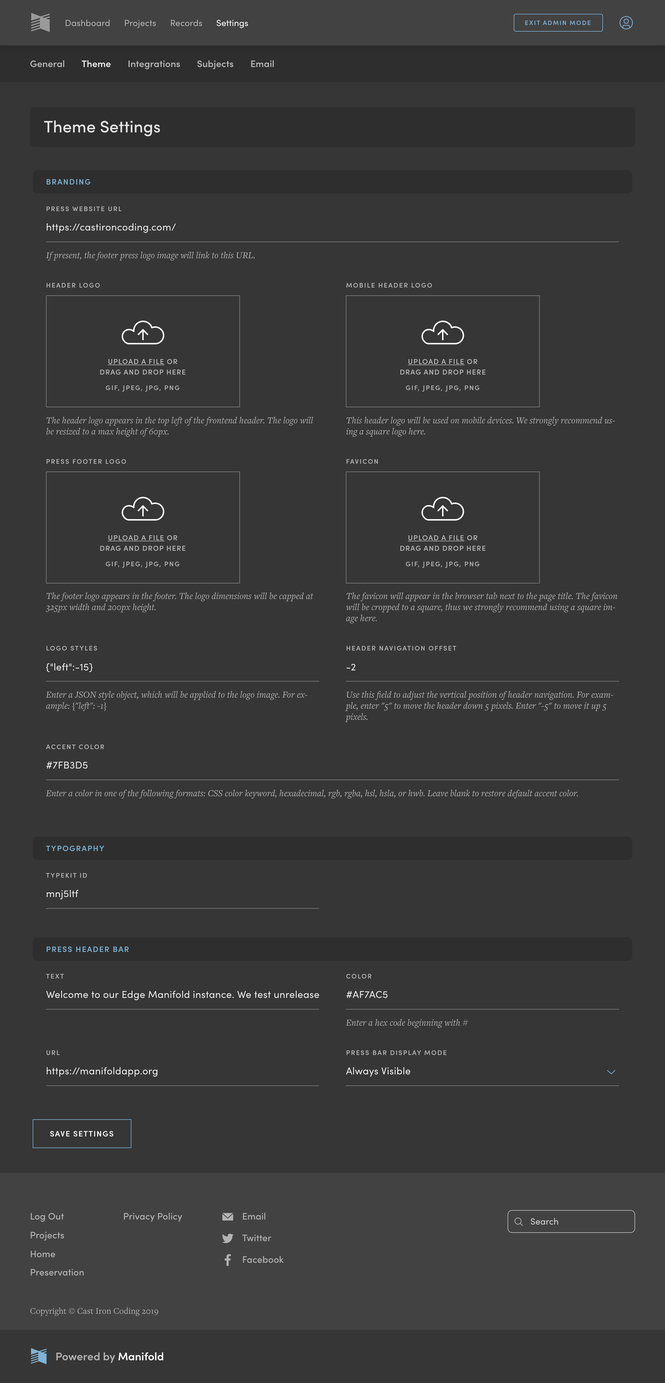
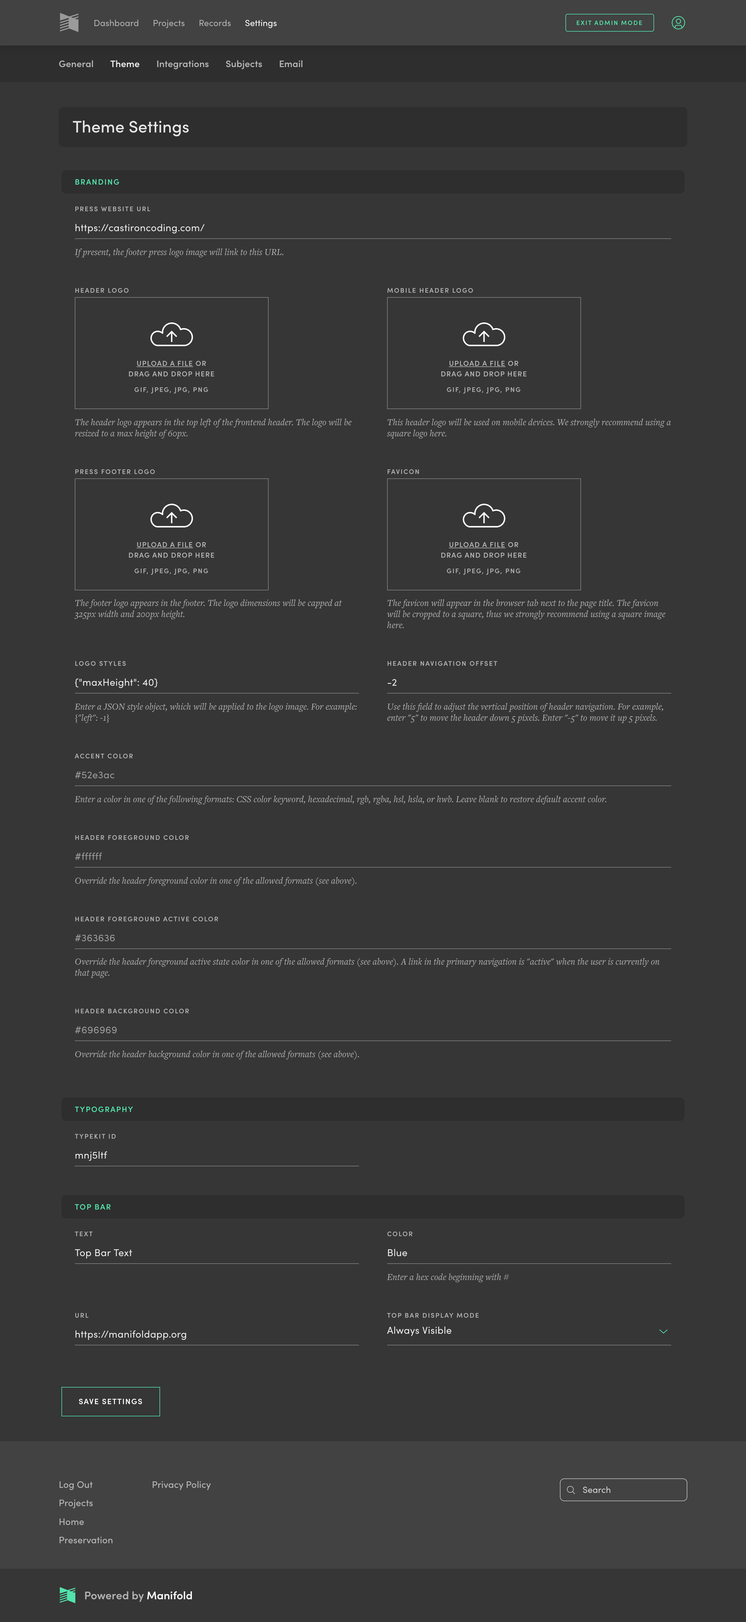
Describes annotation restrictions

diff --git a/_docs/projects/customizing/general.md b/_docs/projects/customizing/general.md
@@ -5,11 +5,12 @@ menus:
   projects_customizing:
     weight: 1
 ---
+
 The General sidebar provides controls for the most top-level elements for how a project is registered and displayed across the system.
 
-## General Attributes
+![General Sidebar Elements](/docs/assets/projects/general.png)
 
-![General Attributes](/docs/assets/projects/general-attributes.png)
+## General
 
 ### Title
 
@@ -47,9 +48,27 @@ You can also upload (as a JPEG, TIFF, GIF, or PNG) a new avatar using the right 
 
 Note that even if you add a book cover to display in the project's [hero block](/docs/projects/customizing/layout.html), you will also need to add it here as a custom image for the cover to show in library views.
 
-## Visibility
+## Taxonomy
 
-![Visibility](/docs/assets/projects/visibility.png)
+<a name="subjects"></a>
+
+### Subjects
+
+Subjects provide a means to categorize projects, which readers can use as filters to sort through the collection of projects on the landing page (see [Projects Library](/docs/reading/library.html)).
+
+Subjects can only be created by users with Administrator roles. All other roles that can access the backend can only select from the list of subjects already loaded into the system. To associate a subject with a project, simply begin typing in this field, and the system will populate those subjects in the system that most closely resemble what you are typing. Once accepted the Subject name will appear beneath the `Add a Subject` field alongside any others that have been associated with the project.
+
+To learn more about how to create Subjects as an Administrator, see the [Subjects section](/docs/customizing/settings/subjects.html). And to see how Subjects can be used to curate Smart Collections, visit the [Project Collections](/docs/projects/collections.html#smart-collections) page.
+
+<a name="tags"></a>
+
+### Tags
+
+Unlike Subjects, Tags can be created by any user who has permission to modify a project and can be used to add further richness to the existing subject classification. Like Subjects, the Tag field provides a helper so that as you begin typing any similar tags that have already been created on your instance will be revealed.
+
+To see how Tags can be used to curate Smart Collections, visit the [Project Collections](/docs/projects/collections.html#smart-collections) page.
+
+## Presentation
 
 <a name="draft-mode"></a>
 
@@ -80,8 +99,7 @@ The Finished toggle is a means to indicate that a project is no longer actively 
 ![Finished](/docs/assets/projects/finished.png)
 
 <div style="background: #d4f2ff; margin: 20px 0; padding: 15px;">
-<strong>Note</strong>. If a project is toggled to Finished and no publication date is set, in list views no date of any kind will appear.<br/><br/>
-<img src="/docs/assets/projects/nopub.png" alt="nopub">
+<strong>Note</strong>. If a project is toggled to Finished and no publication date is set, in list views no date of any kind will appear.
 </div>
 
 <a name="standalone"></a>
@@ -103,11 +121,11 @@ When a project is offered in standalone mode, the library header is replaced wit
 <figure>
   <img src="/docs/assets/projects/library.png" alt="Library Bar" style="margin-bottom: 1em;">
   <img src="/docs/assets/projects/standalone.png" alt="Standalone Bar">
-  <figcaption><em>Above</em>, the standard Manifold library header; <em>below</em>, the standalone header along with a header bar, which serve as branding and navigation elements.</figcaption>
+  <figcaption><em>Above</em>, the standard Manifold header; <em>below</em>, the standalone header along with the optional top bar enabled, which serve as branding and navigation elements.</figcaption>
 </figure>
 
 <div style="background: #d4f2ff; margin: 20px 0; padding: 15px;">
-<strong>Note</strong>. For those with <a href="/docs/projects/accounts/users.html">Administrator credentials</a>, see the Header Bar options on the <a href="/docs/customizing/settings/theme.html#instance-header">Theming Settings page</a> to enable and customize the text, link, and color of the optional header bar),
+<strong>Note</strong>. For those with <a href="/docs/projects/accounts/users.html">Administrator credentials</a>, see the Top Bar options on the <a href="/docs/customizing/settings/theme.html#instance-header">Theming Settings page</a> to enable and customize the text, link, and color of the optional top bar),
 </div>
 
 Additionally, when a project is in standalone mode, the following behaviors can also be expected:
@@ -124,63 +142,48 @@ Additionally, when a project is in standalone mode, the following behaviors can 
 
 - project subpages for individual resources or resource collections show the standalone header with no breadcrumbs.
 
-These settings work in conjunction with the header bar configurations, which can be adjusted on a project-by-project basis or generally across an entire instance.
+These settings work in conjunction with the top bar configurations, which can be adjusted on a project-by-project basis or generally across an entire instance.
 
-See the [Header Bar section](/docs/projects/customizing/general.html#header-bar) below to adjust an individual project's header bar text and link URL. Those with [Administrator credentials](/docs/projects/accounts/users.html) can modify the header bar globally across the instance—its text, link URL, color, and behavior—on the [Theme Settings page](/docs/customizing/settings/theme.html#instance-header).
+See the [Top Bar section](/docs/projects/customizing/general.html#top-bar) below to adjust an individual project's top bar text and link URL. Those with [Administrator credentials](/docs/projects/accounts/users.html) can modify the top bar globally across the instance—its text, link URL, color, and behavior—on the [Theme Settings page](/docs/customizing/settings/theme.html#instance-header).
+
+If you enable or enforce standalone mode on a project but don’t see a top bar on your project, check that the `Top Bar Text` and `Top Bar URL` fields (described below) are filled in. Or, if the project is intended to follow the default instance top bar theme, check the <a href="/docs/customizing/settings/theme.html#instance-header">Theme Settings page</a> to see that Top Bar Display Mode is not set to <code>Disabled</code>.
 
 <div style="background: #d4f2ff; margin: 20px 0; padding: 15px;">
-<ul><li>Regardless of how many projects are set for Standalone Mode, the standard Manifold landing page will still exist. Further, if a reader navigates to an instance's landing page (by happenstance or by entering it into the URL bar) they will be able to see all the projects on the instance—excepting those in <a href="/docs/projects/customizing/general.html#draft-mode">Draft Mode</a> or those where Standalone Mode is enforced (so long as they aren't also part of a project collection).</li>
-<li>If you enable or enforce standalone mode on a project but don't see a header bar on your project, check the <a href="/docs/customizing/settings/theme.html#instance-header">Theme Settings page</a> to see that Header Bar Display Mode is not set to <code>Disabled</code>. N.B., only users with <a href="/docs/projects/accounts/users.html">Administrator credentials</a> can access the Theme Settings page.</li>
-</ul>
+<strong>Note</strong>. Regardless of how many projects are set for Standalone Mode, the standard Manifold library page will still exist. Further, if a reader navigates to an instance’s library page (by happenstance or by entering it into the URL bar) they will be able to see all the projects on the instance—excepting those in <a href="/docs/projects/customizing/general.html#draft-mode">Draft Mode</a> or those where Standalone Mode is enforced (so long as they aren’t also part of a project collection). To Disable Library Views entirely, see the <a href="/docs/customizing/settings/general.html#disable-library">General instance settings</a>.
 </div>
 
-## Taxonomy
+<a name="top-bar"></a>
 
-![Taxonomy](/docs/assets/projects/taxonomy.png)
+### Top Bar Text
 
-<a name="subjects"></a>
+The top bar is a thin, customizable band that serves as a means to contextualize a Manifold page for readers in relation to a larger mission.
 
-### Subjects
-
-Subjects provide a means to categorize projects, which readers can use as filters to sort through the collection of projects on the landing page (see [Projects Library](/docs/reading/library.html)).
-
-Subjects can only be created by users with Administrator roles. All other roles that can access the backend can only select from the list of subjects already loaded into the system. To associate a subject with a project, simply begin typing in this field, and the system will populate those subjects in the system that most closely resemble what you are typing. Once accepted the Subject name will appear beneath the `Add a Subject` field alongside any others that have been associated with the project.
-
-To learn more about how to create Subjects as an Administrator, see the [Subjects section](/docs/customizing/settings/subjects.html). And to see how Subjects can be used to curate Smart Collections, visit the [Project Collections](/docs/projects/collections.html#smart-collections) page.
-
-<a name="tags"></a>
-
-### Tags
-
-Unlike Subjects, Tags can be created by any user who has permission to modify a project and can be used to add further richness to the existing subject classification. Like Subjects, the Tag field provides a helper so that as you begin typing any similar tags that have already been created on your instance will be revealed.
-
-To see how Tags can be used to curate Smart Collections, visit the [Project Collections](/docs/projects/collections.html#smart-collections) page.
-
-<a name="header-bar"></a>
-
-## Header Bar
-The header bar is a thin, customizable branding element that serves as a means to contextualize a Manifold page for readers in relation to a larger mission. The header bar options on this page function as project-specific overrides to the global header bar configurations set by those with [Administrator credentials](/docs/projects/accounts/users.html) on the [Theme Settings page](/docs/customizing/settings/theme.html#instance-header).
+Text entered in this field appears in the top bar for the specific project, superseding the top bar text entered by those with [Administrator credentials](/docs/projects/accounts/users.html) on the [Theme Settings page](/docs/customizing/settings/theme.html#instance-header).
 
 <div style="background: #d4f2ff; margin: 20px 0; padding: 15px;">
 <strong>Notes</strong>
 <ul>
-<li>The header bar color and display parameters are only configurable for users with Administrator credentials from the Theme Settings page.</li>
-<li>The header bar is <em>not</em> required for standalone projects; the header bar can be used strictly with standalone projects or generally across the entire instance.</li>
+<li>The top bar color and display parameters are only configurable for users with Administrator credentials from the Theme Settings page.</li>
+<li>If this field is left blank, the top bar settings for the project  will default to the instance-wide settings</li>
+<li>The top bar is <em>not</em> required for standalone projects; it is highly configurable and can used on a project-by-project basis or it can be used in conjunction with standalone projects settings or generally across the entire instance.</li>
+<li>This field is <em>not</em> Markdown enabled and only accepts one line of text.</li>
 </ul>
 </div>
 
-![Header Bar](/docs/assets/projects/header-bar.png)
+### Top Bar URL
 
-### Header Bar Text
+The top bar functions as a clickable link. The URL entered here will serve as the link target to any user who clicks on the top bar. As with the Top Bar Text above, the value entered here will supersede the input from the [Theme Settings page](/docs/customizing/settings/theme.html#instance-header).
 
-Text entered here appears in the header bar for the specific project being editing, superseding the header bar text entered by those with [Administrator credentials](/docs/projects/accounts/users.html) on the [Theme Settings page](/docs/customizing/settings/theme.html#instance-header).
+## Restrictions
 
-![Header Bar Text](/docs/assets/projects/header-bar-text.png)
+### Disable Public Annotations and Comments
 
-<div style="background: #d4f2ff; margin: 20px 0; padding: 15px;">
-<strong>Note</strong>. This field is <em>not</em> Markdown enabled and only accepts one line of text.
-</div>
+When this local setting is toggled on, users will not be able to pin public annotations to any text that is a part of this specific project. *This does not prevent users from annotating texts in this project entirely.* Users will be able to leave annotations in the context of a reading group of which they are a member—and viewable to other members of that group—or as a private annotation, viewable only to the user themself.
 
-### Header Bar URL
+Because of that, someone who doesn't have an account, or someone who is logged in as a Reader, won't see annotations on any text in the project so long as this toggle is engaged. The exception would be Readers who are members of reading groups: they will be able to see annotations that have been left in the context of those reading groups. 
 
-The header bar functions as a clickable link. The URL entered here will serve as the link target to any user who clicks on the header bar. As with the Header Bar Text above, the value entered here will supersede the input from the [Theme Settings page](/docs/customizing/settings/theme.html#instance-header).
+While this setting is engaged, it will not possible to convert a private annotation into a public one, and public reading groups will function as if they were private ones.
+
+To learn how to disable public annotations globally across an entire Manifold instance, instead of locally for specific projects, see the [General Settings section](/docs/customizing/settings/general).
+
+Likewise, that section describes how to further limit the annotation functionality by disabling reading groups across an entire instance. When publishers disable both public annotation and reading groups globally, users will only be able to leave private annotations they alone can see.

diff --git a/_docs/customizing/settings/theme.md b/_docs/customizing/settings/theme.md
@@ -69,21 +69,21 @@ If left blank, Manifold will reset to its default accent color.
 <strong>Note</strong>. Manifold will still calculate values for secondary system colors in line with accessibility standards even if a custom value has been input.
 </div>
 
-### Library Header Foreground Color
+### Header Foreground Color
 
-If a value is entered here, it will override the value of the accent color for links contained with the header bar.
+If a value is entered here, it will override the value of the accent color for links contained within the Manifold header.
 
-### Library Header Foreground Active Color
+### Header Foreground Active Color
 
-The color value entered has two purposes: it indicates what page a reader is presently viewing (e.g., Home, Projects, Following), and it also serves as the hover color for links to pages in the header bar.
+The color value entered has two purposes: it indicates what page a reader is presently viewing (e.g., Home, Projects, Following), and it also serves as the hover color for links to pages in the Manifold header.
 
-### Library Header Background Color
+### Header Background Color
 
-By default the header bar background is white. By entering a color value here, a publisher can further bring their instance in line with their branding expectations.
+By default the Manifold header background is white. By entering a color value here, a publisher can further bring their instance in line with their branding expectations.
 
 <figure>
   <img src="/docs/assets/customizing/libraryHeader.png" alt="Library Header Color Elements">
-  <figcaption>Here we see the header bar with the following values: <code>Accent Color</code>, Yellow; <code>Header Foreground Color</code>, White; <code>Header Foreground Active Color</code>, Red; and <code>Header Background Color</code>, Black.</figcaption>
+  <figcaption>Here we see the Manifold header with the following values: <code>Accent Color</code>, Yellow; <code>Header Foreground Color</code>, White; <code>Header Foreground Active Color</code>, Red; and <code>Header Background Color</code>, Black.</figcaption>
 </figure>
 
 ## Typography
@@ -158,21 +158,21 @@ If you do not have a Typekit account, Manifold will defer to two sets of open-li
 
 <a name="instance-header"></a>
 
-## Press Header Bar
+## Top Bar
 
-![Instance Header](/docs/assets/customizing/instance-header.png)
+![Top Bar Menu](/docs/assets/customizing/top-bar.png)
 
-The press header bar is a thin, customizable branding element that serves as a means to contextualize a Manifold page for readers in relation to a larger mission. It can be configured to appear atop all Manifold pages outside of the reader, or it can be set to specifically target only those projects that are enabled for [standalone mode](/docs/projects/customizing/general.html#standalone).
+The top bar is a thin, customizable branding element that serves as a means to contextualize a Manifold page for readers in relation to a larger mission. It can be configured to appear atop all Manifold pages outside of the reader, set to specifically target only those projects that are enabled for [standalone mode](/docs/projects/customizing/general.html#standalone), or configured on a project-by-project basis..
 
 <div style="background: #d4f2ff; margin: 20px 0; padding: 15px;">
-<strong>Note</strong>. The press header bar can be deployed in addition to the standard header; it does not <em>only</em> need to be used in conjunction with projects in standalone mode.
+<strong>Note</strong>. The top bar can be deployed in addition to the standard header; it does not <em>only</em> need to be used in conjunction with projects in standalone mode.
 </div>
 
 ### Text
 
-Text entered here appears in the header bar globally across the instance, but it can be superseded on individual projects if so configured in a project's [General settings](/docs/projects/customizing/general.html#header-bar).
+Text entered here appears in the top bar globally across the instance, but it can be superseded on individual projects if so configured in a project's [General settings](/docs/projects/customizing/general.html#top-bar).
 
-![Header Bar Text](/docs/assets/projects/header-bar-text.png)
+![Top Bar Text](/docs/assets/projects/top-bar-text.png)
 
 <div style="background: #d4f2ff; margin: 20px 0; padding: 15px;">
 <strong>Note</strong>. This field is <em>not</em> Markdown enabled and only accepts one line of text.
@@ -180,22 +180,22 @@ Text entered here appears in the header bar globally across the instance, but it
 
 ### Color
 
-The color of the header bar is customizable. To define the color of the header bar for your Manifold instance, enter an HTML color hex value—including the hash symbol (#)—in this field (e.g., `#2980B9`).
+The color of the top bar is customizable. To define the color of the top bar for your Manifold instance, enter an HTML color hex value—including the hash symbol (#)—in this field (e.g., `#2980B9`).
 
 <div style="background: #d4f2ff; margin: 20px 0; padding: 15px;">
-<strong>Note</strong>. The color of the header bar is a global setting and cannot be adjusted for individual projects.
+<strong>Note</strong>. The color of the top bar is a global setting and cannot be adjusted for individual projects.
 </div>
 
 ### URL
 
-The header bar functions as a clickable link. The URL entered here will serve as the target link to any user who clicks on the header bar. Like the Header Bar Text, input here can be overriden on a project's [General settings](/docs/projects/customizing/general.html#header-bar) page.
+The top bar functions as a clickable link. The URL entered here will serve as the target link to any user who clicks on the top bar. Like the Top Bar Text, input here can be overriden on a project's [General settings](/docs/projects/customizing/general.html#top-bar) page.
 
-### Press Bar Display Mode
+### Top Bar Display Mode
 
-- **Disabled**. When set to `Disabled` the header bar will not display—*even if* a user fills in the [header bar fields](/docs/projects/customizing/general.html#header-bar) for an individual project or sets one up to appear in [standalone mode](/docs/projects/customizing/general.html#standalone).
-- **Always Visible**. If toggled to `Always Visible`, so long as the text and URL have been provided, the header bar will display on all Manifold pages (excepting those within the reader), regardless of whether or not those pages are associated with a standalone project. If users have enabled [standalone mode](/docs/projects/customizing/general.html#standalone) and the [header bar](/docs/projects/customizing/general.html#header-bar) for individual projects, those settings will override the text and URL entered here in the Theme settings.
-- **Only Visible in Standalone Mode**. To set the header bar to only appear on those pages associated with projects that are enabled for [standalone mode](/docs/projects/customizing/general.html#standalone), select `Only Visible in Standalone Mode`.
+- **Disabled**. When set to `Disabled` the top bar will not display—*unless* a user fills in the [top bar fields](/docs/projects/customizing/general.html#top-bar) for an individual project.
+- **Always Visible**. If toggled to `Always Visible`, so long as the text and URL have been provided, the top bar will display on all Manifold pages (excepting those within the reader). If users have enabled [project-specific top-bar attributes](/docs/projects/customizing/general.html#top-bar), those settings will override the text and URL entered here.
+- **Only Visible in Standalone Mode**. To set the top bar to appear on projects that are enabled for [standalone mode](/docs/projects/customizing/general.html#standalone), select `Only Visible in Standalone Mode`. Project-level overrides are still possible with this setting selected.
 
 <div style="background: #d4f2ff; margin: 20px 0; padding: 15px;">
-The header won't display unless text and a URL are provided. However, if the header bar is enabled to be visible in standalone mode and a user has input text and a URL for those projects individually in their <a href="/docs/projects/customizing/general.html">General settings</a>, the header bar will appear, even if that information has not been filled in here in the Theme settings.
+<strong>Note </strong>. The header won't display unless text and a URL are provided.
 </div>

diff --git a/_docs/customizing/settings/general.md b/_docs/customizing/settings/general.md
@@ -101,13 +101,15 @@ When `Project Access is Restricted` is toggled on, the text in this field will d
 
 This field is customizable and Markdown enabled. If left blank, the default message will display: “Access to this project is restricted.”
 
-![Restricted Notice](/docs/assets/projects/restrictedNotice.png)
+![Restricted Notice](/docs/assets/customizing/restrictedNotice.png)
 
 ### Restricted Access Notice Body *(Contextual)*
 
 When `Project Access is Restricted` is toggled on, the text in this field will display (with the `Restricted Access Notice Header`) below the project hero for only those users who don't have credentials to access the project.
 
 This field is customizable and Markdown enabled. If left blank, the default message will display: “Only users granted permission may view this project's texts, resources, and other content.”
+
+<a name="disable-library"></a>
 
 ### Disable Library Views
 
@@ -122,20 +124,56 @@ When this slider is toggled on, project library views will be disabled. Addition
 - Transactional pages will render in the context of the last project that the user visited.
 - Global search will be scoped to the project level.
 
-## Enforce Standalone Mode for All Projects *(Contextual)*
+### Enforce Standalone Mode for All Projects *(Contextual)*
 
 If this slider is toggled on, all projects will render in [standalone mode](/docs/projects/customizing/general.html#standalone-mode), overriding individual project settings.
 
 When projects are in standalone mode, the standard library header that displays a custom logo and color scheme will be supplanted by standalone header with fewer branding options.
 
 <div style="background: #d4f2ff; margin: 20px 0; padding: 15px;">
-<strong>Note</strong>. To learn more about adjusting the branding of the standard library header bar, see the <a href="/docs/customizing/settings/theme.html">Theming page</a>.
+<strong>Note</strong>. To learn more about adjusting the branding of the standard library header, see the <a href="/docs/customizing/settings/theme.html">Theming page</a>, under ther <code>Branding</code> heading.
 </div>
 
-## Library Page Redirect URL *(Contextual)*
+### Library Page Redirect URL *(Contextual)*
 
 Library pages—with the exception of the instance's home page—will redirect to the URL designated in this field when library views are disabled. If left blank, requests to display library pages will return a `404 Page Not Found` error.
 
-## Home Page Redirect URL *(Contextual)*
+### Home Page Redirect URL *(Contextual)*
 
 The Manifold home page will redirect to the URL designated in this field when library views are disabled. If left blank, requests to display library pages will return a `404 Page Not Found` error.
+
+## Disable Public Annotations and Comments
+
+When this global setting is toggled on, users will not be able to pin a public annotation to any text in the instance. *This does not prevent users from annotating texts entirely.* However users will be able to only leave annotations in the context of a reading group of which they are a member—and viewable to other members of that group—or as a private annotation, viewable only to the user themself.
+
+Because of that, someone who doesn't have an account, or someone who is logged in as a Reader, won't see any annotations throughout the instance when this toggle is engaged. The exception would be Readers who are members of reading groups: they will be able to see annotations that have been left in the context of those reading groups. 
+
+So long as this setting is engaged, it is not possible to convert a private annotation into a public one, and public reading groups will function as if they were private ones.
+
+If you wish to further limit the annotation functionality across your instance, you can also disable reading groups (described below). When publishers disable both public annotation and reading groups, users will only be able to leave private annotations they alone can see.
+
+To learn how to disable public annotations for specific projects, instead of for an instance globally, see the [project settings section](/docs/projects/customizing/general.html).
+
+## Disable Reading Groups
+
+By engaging this toggle, users will not be able to create new or join existing reading groups. Additionally, existing reading group annotations created before this toggle was enabled will no longer be visible to anyone—including the users who left the annotations.
+
+This is a global setting that will affect all readings groups across the instance. Reading groups themselves don’t have direct relationships to projects; instead they are a collection of users and a way of grouping people and annotations. Thus it is not possible to selectively disable all reading group functionality on a project-by-project basis. However, if `Disable Public Annotations and Comments` (described above) is engaged globally or for a specific project (learn more about that process in the [project settings](/docs/projects/customizing/general.html)) then all reading groups will function as if they were private reading groups and then only be accessible to group members.
+
+When this toggle is enabled, the application will display differently in certain scenarios:
+
+After selecting text in the reader, the pop-up language will change from "Current Group" to "Current Visibility."
+
+![Restricted Popup](/docs/assets/customizing/restrict-pop.jpg)
+
+Extending from that use case, the menu heading, when selecting the context of the annotation, will adjust likewise from "Reading Group" to "Visibility." Existing reading groups will no longer appear in the dropdown.
+
+![Restricted Group](/docs/assets/customizing/restrict-group.jpg)
+
+The visibility dropdown's heading will change from "Reading Groups" to "Visibility." And as with the pop-up, existing reading groups will no longer render in the listings.
+
+![Restricted Visibility](/docs/assets/customizing/restrict-visibility.jpg)
+
+Last, the user dropdown will no longer provide a link to "Mange Groups."
+
+![Restricted Drowndown](/docs/assets/customizing/restrict-dropdown.jpg)
